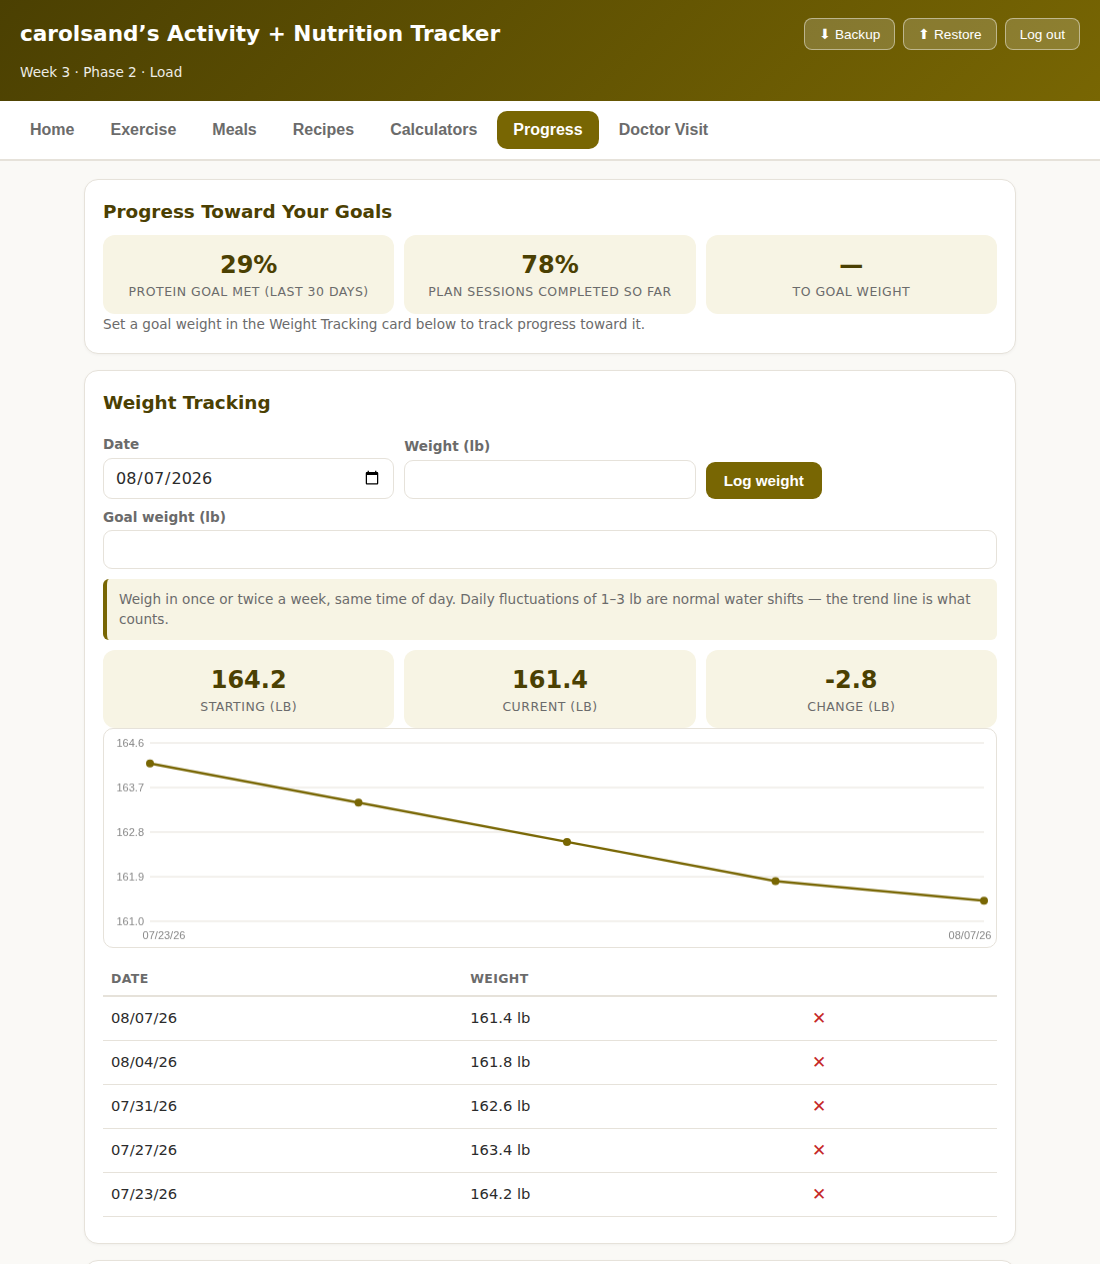
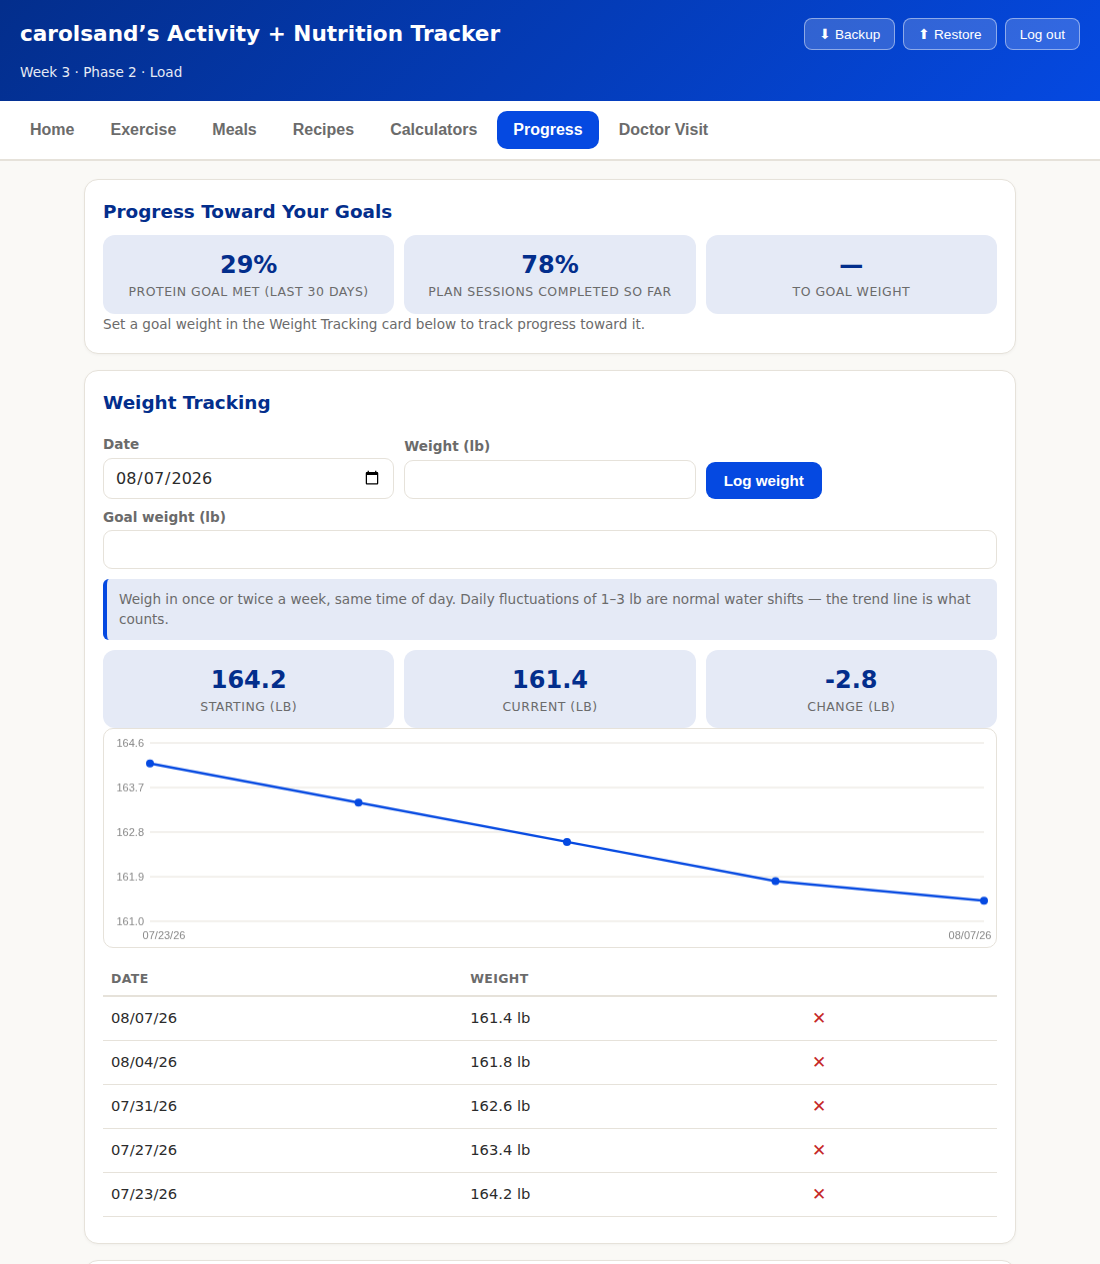
Flip palette: royal blue primary, dark gold secondary
Reversed roles per new request (#6F9BFC/#F9D406, swapped order from
last time). Reused the exact same derived colors from the previous
pass (#0549e1, #786603) since both already clear 4.5:1 -- just swapped
which one is --accent vs --plum, plus added an accent-dark/-light pair
for blue (needed now that it's primary) and dropped the gold's -dark
variant (not needed for the secondary role).

Updates README graphics and regenerates the real app screenshots.

diff --git a/strength-nutrition-tracker.html b/strength-nutrition-tracker.html
@@ -6,8 +6,8 @@
 <title>Activity + Nutrition Tracker</title>
 <style>
 :root{
-  --accent:#786603; --accent-dark:#4b4002; --accent-light:#f7f4e4;
-  --plum:#0549e1; --plum-light:#e1e7f4;
+  --accent:#0549e1; --accent-dark:#032e8c; --accent-light:#e5eaf6;
+  --plum:#786603; --plum-light:#f7f4e4;
   --bg:#faf9f6; --card:#ffffff; --ink:#2b2b2b; --muted:#6b6b6b;
   --line:#e6e2da; --good:#2e7d32; --warn:#c62828; --gold:#c9a227;
 }
@@ -1248,9 +1248,9 @@ function drawWeightChart(){
   for(let g=0;g<=4;g++){ const v=lo+(hi-lo)*g/4, yy=y(v);
     ctx.beginPath(); ctx.moveTo(pad.l,yy); ctx.lineTo(W-pad.r,yy); ctx.stroke();
     ctx.fillText(v.toFixed(1), pad.l-6, yy+4); }
-  ctx.strokeStyle="#786603"; ctx.lineWidth=2.5; ctx.beginPath();
+  ctx.strokeStyle="#0549e1"; ctx.lineWidth=2.5; ctx.beginPath();
   ws.forEach((w,i)=>{ i?ctx.lineTo(x(i),y(w.lbs)):ctx.moveTo(x(i),y(w.lbs)); }); ctx.stroke();
-  ctx.fillStyle="#786603";
+  ctx.fillStyle="#0549e1";
   ws.forEach((w,i)=>{ ctx.beginPath(); ctx.arc(x(i),y(w.lbs),4,0,7); ctx.fill(); });
   ctx.fillStyle="#888"; ctx.textAlign="center";
   ctx.fillText(fmtDate(ws[0].date), x(0)+14, H-8);
@@ -1290,13 +1290,13 @@ function drawBarsChart(id, days, series, targetLine, emptyText){
 function drawProteinChart(){
   const days = last14();
   const vals = days.map(d=>S.meals.filter(m=>m.date===d).reduce((a,m)=>a+(+m.protein||0),0));
-  drawBarsChart("chartProtein", days, [{name:"Protein (g)", values:vals, color:"#786603"}], proteinRange()[0], "Log meals to see your daily protein here");
+  drawBarsChart("chartProtein", days, [{name:"Protein (g)", values:vals, color:"#0549e1"}], proteinRange()[0], "Log meals to see your daily protein here");
 }
 function drawCalsChart(){
   const days = last14();
   const eaten = days.map(d=>S.meals.filter(m=>m.date===d).reduce((a,m)=>a+(+m.cals||0),0));
   const burned = days.map(d=>S.activities.filter(a=>a.date===d).reduce((a,x)=>a+x.kcal,0));
-  drawBarsChart("chartCals", days, [{name:"Eaten",values:eaten,color:"#0549e1"},{name:"Burned (exercise)",values:burned,color:"#786603"}], null, "Log meals and activities to compare calories in vs. out");
+  drawBarsChart("chartCals", days, [{name:"Eaten",values:eaten,color:"#786603"},{name:"Burned (exercise)",values:burned,color:"#0549e1"}], null, "Log meals and activities to compare calories in vs. out");
 }
 function drawWorkoutsChart(){
   const n = Math.min(totalWeeks(), Math.max(currentWeek(),8));
@@ -1311,7 +1311,7 @@ function drawWorkoutsChart(){
   for(let g=0;g<=4;g++){ const v=hi*g/4, yy=y(v); ctx.beginPath(); ctx.moveTo(pad.l,yy); ctx.lineTo(W-pad.r,yy); ctx.stroke(); ctx.fillText(Math.round(v),pad.l-6,yy+4); }
   const slot=(W-pad.l-pad.r)/n;
   vals.forEach((v,i)=>{
-    ctx.fillStyle = (i+1===currentWeek()) ? "#c9a227" : "#786603";
+    ctx.fillStyle = (i+1===currentWeek()) ? "#c9a227" : "#0549e1";
     if (v>0) ctx.fillRect(pad.l+slot*i+slot*0.2, y(v), slot*0.6, (H-pad.b)-y(v));
     ctx.fillStyle="#888"; ctx.textAlign="center";
     if (n<=16 || i%2===0) ctx.fillText(labels[i], pad.l+slot*i+slot/2, H-8);
